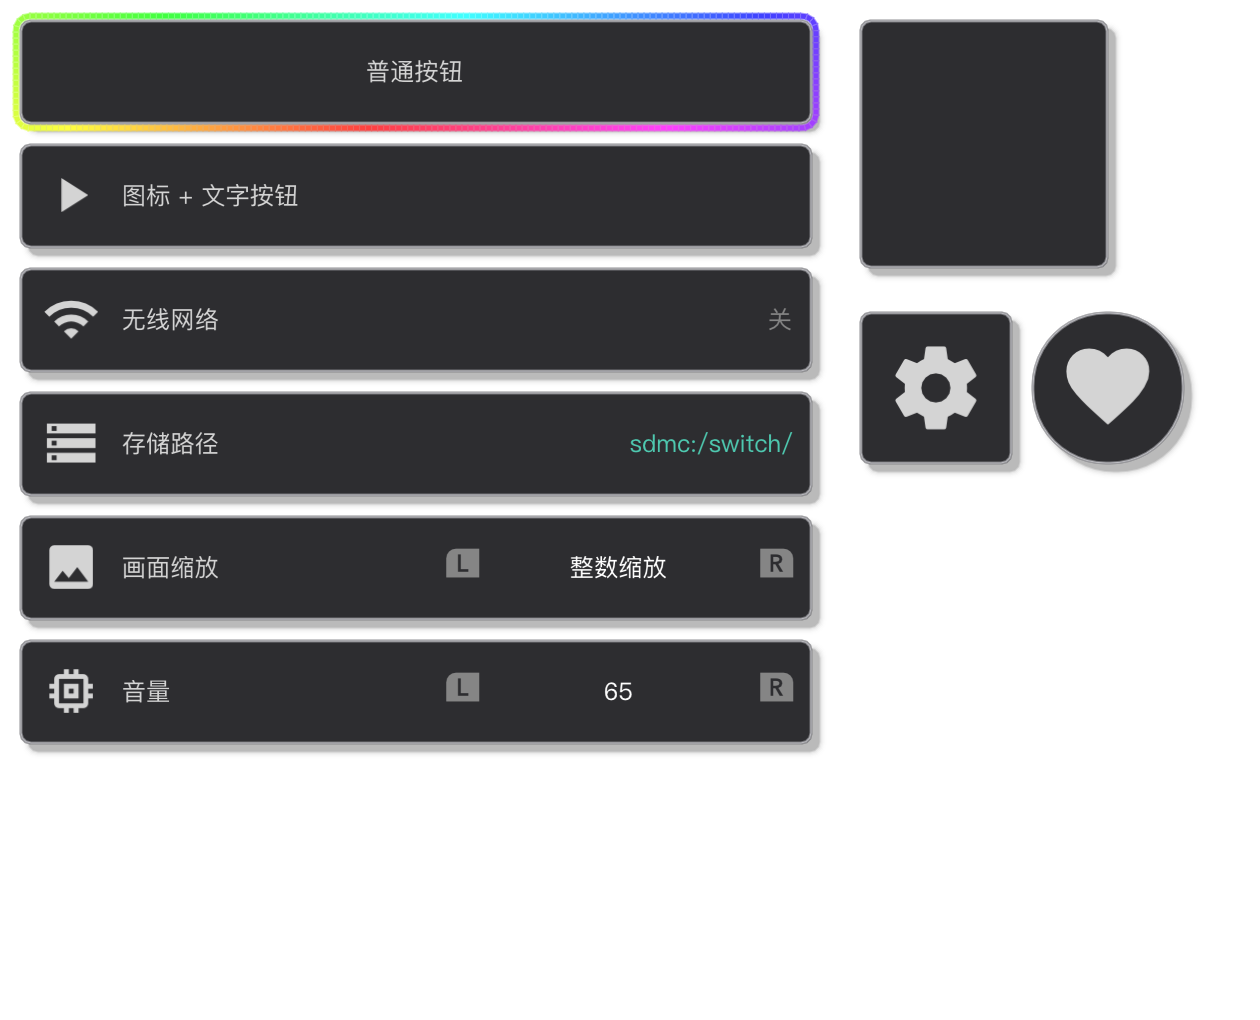
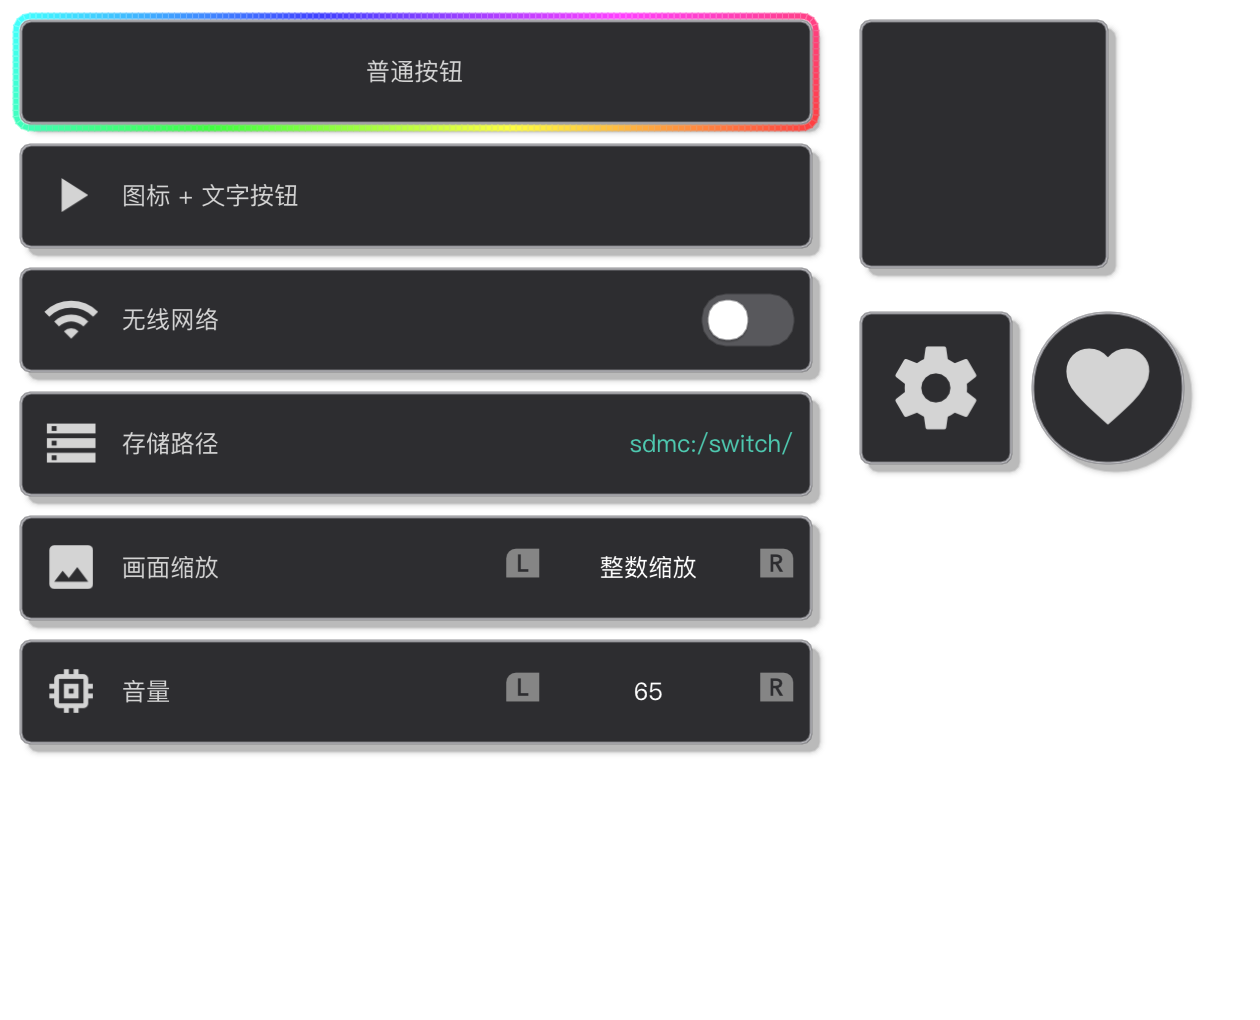
LR 间隔缩到 3/4；开关按钮右侧改成带滑动动画的滑块开关
1. Global::component_style.lr_slot_width 120px → 90px（原值 3/4），两个 LR 选择器
   （OptionButton / ValueButton）共用；内容仍在间隔里居中、超长仍然滚动。
2. ToggleButton 右侧的「开/关」文字换成滑块开关：轨道（关闭 rgb(88,88,92) / 打开 #007ACC）
   + 白色旋钮（带 1px 投影），旋钮位置和轨道色一起做指数平滑动画（knob_speed，默认 14）。
   接口：setSwitchSize(w,h) / setSwitchColors(on, off, knob) / knobMix()；
   原来的 on_text / off_text 字段删掉（需求就是不再用文字）。

验证：
- 抓帧核对 LR 行 [L] 整数缩放 [R]：L 字形 264 起、内容墨迹中心 333（间隔中心 336）、R 在右端 390~407；
  音量行 [L] 65 [R]：65 墨迹中心 334。
- 开关：关态轨道 (88,88,92)、旋钮在 x368~383；开态轨道 (3,121,201)、旋钮在 x388~398。
- 动画：逐帧打点 toggle 后的 knob 值 0 → 0.209 → 0.372 → 0.504 → 0.606 → 0.689 → … → 1（约 0.45s 收敛），
  确认是滑动过渡而不是瞬变。
- mac Debug/Release + Switch 均编译通过；ctest 全绿；6 个 demo 退出码 0；快照已更新。

diff --git a/component_view/components/Button.cpp b/component_view/components/Button.cpp
@@ -1,5 +1,6 @@
 #include "component_view/components/Button.h"
 
+#include <cmath>
 #include <cstdio>
 
 #include "component_view/Draw.h"
@@ -455,18 +456,60 @@ ToggleButton& ToggleButton::setChecked(bool value, bool notify) {
     return *this;
 }
 
+ToggleButton& ToggleButton::setSwitchSize(float width, float height) {
+    switch_width = Maxf(width, 16.0f);
+    switch_height = Clampf(height, 10.0f, Maxf(switch_width, 10.0f));
+    return *this;
+}
+
+ToggleButton& ToggleButton::setSwitchColors(ImVec4 on, ImVec4 off, ImVec4 knob) {
+    on_color = on;
+    off_color = off;
+    knob_color = knob;
+    return *this;
+}
+
 float ToggleButton::rightSideWidth() const {
-    const char* label = checked ? on_text.c_str() : off_text.c_str();
-    return Draw::MeasureText(nullptr, mainFontSize(), label, 0.0f).x;
+    return switch_width;
+}
+
+void ToggleButton::OnUpdate(float dt) {
+    const float target = checked ? 1.0f : 0.0f;
+    if (knob_mix_ < 0.0f) {
+        knob_mix_ = target; // 第一帧直接对齐，避免刚打开就滑一下
+        return;
+    }
+    // 指数平滑，和 Widget 的焦点动画同一种手感
+    const float k = 1.0f - std::exp(-Maxf(knob_speed, 0.01f) * Maxf(dt, 0.0f));
+    knob_mix_ += (target - knob_mix_) * k;
+    if (std::fabs(knob_mix_ - target) < 0.001f) {
+        knob_mix_ = target;
+    }
 }
 
 void ToggleButton::drawRightSide(ImDrawList* dl, const Rect& right_rect) {
-    const char* label = checked ? on_text.c_str() : off_text.c_str();
-    const float size = mainFontSize();
-    const ImVec2 extent = Draw::MeasureText(nullptr, size, label, 0.0f);
-    Draw::Text(dl, nullptr, size,
-               ImVec2(right_rect.max.x - extent.x, right_rect.Center().y - extent.y * 0.5f),
-               Theme::U32(checked ? on_color : off_color), label);
+    const float t = Clampf(knob_mix_ < 0.0f ? (checked ? 1.0f : 0.0f) : knob_mix_, 0.0f, 1.0f);
+    const float height = switch_height;
+    const Rect track = Rect::FromPosSize(ImVec2(right_rect.max.x - switch_width, right_rect.Center().y - height * 0.5f),
+                                         ImVec2(switch_width, height));
+    const float radius = height * 0.5f;
+    // 轨道：关闭灰 -> 打开蓝，颜色跟着动画一起过渡
+    Draw::RoundedRectFilled(dl, track, Theme::Mix(Theme::U32(off_color), Theme::U32(on_color), t), radius, radius,
+                            radius, radius);
+    // 旋钮：从左滑到右
+    const float inset = Maxf(2.0f, height * 0.12f);
+    const float knob_r = Maxf(radius - inset, 2.0f);
+    const float travel = Maxf(track.Width() - 2.0f * inset - 2.0f * knob_r, 0.0f);
+    const float knob_x = track.min.x + inset + knob_r + travel * t;
+    const Rect knob = Rect::FromPosSize(ImVec2(knob_x - knob_r, track.Center().y - knob_r),
+                                        ImVec2(knob_r * 2.0f, knob_r * 2.0f));
+    ShadowStyle knob_shadow;
+    knob_shadow.enabled = true;
+    knob_shadow.color = Theme::U32(Theme::rgba(0, 0, 0, 110));
+    knob_shadow.offset = ImVec2(0.0f, 1.0f);
+    knob_shadow.blur = 3.0f;
+    Draw::SoftShadow(dl, knob, knob_shadow, knob_r, knob_r, knob_r, knob_r);
+    Draw::RoundedRectFilled(dl, knob, Theme::U32(knob_color), knob_r, knob_r, knob_r, knob_r);
 }
 
 bool ToggleButton::OnPadAction(InputAction action) {

diff --git a/component_view/components/Button.h b/component_view/components/Button.h
@@ -165,23 +165,34 @@ protected:
 };
 
 // ------------------------------------------------------------------- 4 开关 ---
+// 右侧是一个滑块式开关（轨道 + 旋钮），切换时旋钮位置与轨道颜色都做平滑动画。
 class ToggleButton : public Button {
 public:
     ToggleButton();
     ToggleButton(std::string glyph, std::string value);
 
     bool checked = false;
-    std::string on_text = "开";
-    std::string off_text = "关";
-    ImVec4 on_color = Theme::kAccent;
-    ImVec4 off_color = Theme::kTextMuted;
+    // 开关外观
+    ImVec4 on_color = Theme::kAccent;      // 打开时的轨道色
+    ImVec4 off_color = Theme::rgb(88, 88, 92); // 关闭时的轨道色
+    ImVec4 knob_color = Theme::kTextBright;    // 旋钮色
+    float switch_width = 46.0f;
+    float switch_height = 26.0f;
+    float knob_speed = 14.0f; // 动画收敛速度（越大越快）
 
     ToggleButton& setChecked(bool value, bool notify = true);
+    ToggleButton& setSwitchSize(float width, float height);
+    ToggleButton& setSwitchColors(ImVec4 on, ImVec4 off, ImVec4 knob);
+    float knobMix() const { return knob_mix_; }
 
 protected:
     float rightSideWidth() const override;
     void drawRightSide(ImDrawList* dl, const Rect& right_rect) override;
     bool OnPadAction(InputAction action) override;
+    void OnUpdate(float dt) override;
+
+private:
+    float knob_mix_ = -1.0f; // <0 = 还没初始化，第一帧直接对齐到 checked（不播动画）
 };
 
 // ----------------------------------------------------------- 5 自定义右侧文字 --

diff --git a/component_view/Global.h b/component_view/Global.h
@@ -49,7 +49,7 @@ struct ComponentStyle {
     // 内容
     float content_padding = 8.0f; // 内容到边框的留白（图标四周等距就是靠它）
     // LR 选择器（OptionButton / ValueButton）：[L] 固定间隔 [R] 里那一格的宽度
-    float lr_slot_width = 120.0f;
+    float lr_slot_width = 90.0f;
     // 上面那一格放不下时，文字横向滚动显示
     float marquee_speed = 26.0f; // px/s
 };

diff --git a/README.md b/README.md
@@ -183,7 +183,7 @@ void OnBuild() override {
 | 聚焦框 | 完整闭合的流光框，与按钮留 **2px** 边距，宽 **3px** | `setFlowingFocus(bool)` + `focus_margin / focus_width / focus_saturation / focus_brightness / focus_phase_offset` |
 | 内容留白 | 8px | `setContentPadding(px)` |
 | 图标格 | 正方形，边长 = 内容区高度（四周留白相同） | `setIconCellSize(px)` |
-| LR 间隔 | 120px 固定宽，内容居中、超长滚动 | `setSlotWidth(px)` |
+| LR 间隔 | 90px 固定宽，内容居中、超长滚动 | `setSlotWidth(px)` |
 
 流光框的相位跟 `Global::time` 走（`focus_flow_speed` 控制流速），颜色是沿圆角边框按弧长流动的 HSV，
 所以四边一直是闭合的，不会出现"只有上下两条线"的聚焦效果。
@@ -193,7 +193,7 @@ void OnBuild() override {
 | 1 | `TextButton` | `("文字")` | 文字水平居中，**不带说明行**（弹窗的确认/取消这类提示文字） | — |
 | 2 | `IconTextButton` | `(icon, "文字")` | 图标占左侧正方形格（格内水平+垂直居中）+ 文字紧跟其右 | — |
 | 3 | `IconButton` | `(icon)` | 只有图标，两种形态：`setShape(RoundedSquare/Circle)` + `setSide(px)`；说明行画在按钮外面 | — |
-| 4 | `ToggleButton` | `(icon, "文字")` | 图标 + 文字 | 开 / 关（开=蓝、关=灰），A/点击切换，`toggled(bool)` |
+| 4 | `ToggleButton` | `(icon, "文字")` | 图标 + 文字 | 右侧滑块开关（开=蓝、关=灰），切换有滑动动画，A/点击切换，`toggled(bool)` |
 | 5 | `CustomButton` | `(icon, "文字")` | 图标 + 文字 | 自定义文字：`setRightText(text, color)` |
 | 6 | `OptionButton` | `(icon, "文字")` | 图标 + 文字 | `[L] 选项 [R]`：固定间隔、居中、超长滚动；`setOptions({...})`，L/R 切换，`selectionChanged(int)` |
 | 7 | `ValueButton` | `(icon, "文字")` | 图标 + 文字 | `[L] 数值 [R]`：同上；`setup(初值, 最小, 最大, 步长, 小数位)`，L/R 调值，`valueChanged(float)` |
@@ -212,7 +212,7 @@ void OnBuild() override {
 默认在按钮下方，下方空间不足就等距放到上方，上下都不够就直接不显示。
 可用空间 = 画布 ∩ 父节点（`CaptionLimit()`），间距用 `caption_gap`（默认 4px）。
 
-`OptionButton` / `ValueButton` 的右侧是 `[L] <固定间隔> [R]`：间隔宽度固定（默认 120px），
+`OptionButton` / `ValueButton` 的右侧是 `[L] <固定间隔> [R]`：间隔宽度固定（默认 90px），
 文字/数字在间隔里居中；**放不下就在间隔里横向循环滚动**（跑马灯，超出部分按间隔裁掉）。
 
 `ValueButton` 支持**长按加速**：按住 0.35s 后开始重复，重复间隔从 120ms 收紧到 30ms（有下限），
@@ -803,6 +803,13 @@ git -C third_party/imgui fetch --tags     # 升级 imgui 用
   关掉说明行后主文字就停在偏上 8px 的位置；现在按文字块自己的高度居中。
   实测（说明行关）：无线网络主文字墨迹中心 169.5 / 存储路径 231.5 vs 按钮中心 170 / 232；
   普通按钮（无说明行）主文字墨迹中心 y=45.5、x=217 vs 按钮中心 (46, 218)。
+- 已确认（Button 第五轮调整）：① LR 选择器的固定间隔 120px → **90px**（原来的 3/4）——抓帧核对
+  `[L] 整数缩放 [R]`：L 字形 264 起、内容墨迹中心 333（间隔中心 336）、R 落在右端 390~407；
+  ② `ToggleButton` 右侧的「开/关」文字换成**滑块开关**（轨道 + 旋钮，开=#007ACC、关=rgb(88,88,92)、
+  旋钮白色带一点投影），切换时旋钮位置和轨道色一起做指数平滑动画：逐帧打点看到
+  `mix: 0 → 0.209 → 0.372 → 0.504 → 0.606 → 0.689 → … → 1`（约 0.45s 收敛），
+  抓帧核对关态旋钮在 x368~383、开态在 x388~398，轨道色 (88,88,92) → (3,121,201)；
+  接口：`setSwitchSize(w,h)` / `setSwitchColors(on,off,knob)` / `knob_speed` / `knobMix()`。
 - 顺带修掉一个框架输入 bug（长按功能的前提）：`PadState::held` 原来是"每帧清零"，SDL 只在按下那一刻
   发一次 KEYDOWN，所以按住不放时 `held` 只有第一帧为真、`Held()` 根本没法用（`Input.h` 注释里
   写的是电平语义）。现在后端把上一帧的按住状态继承下来再叠加本帧事件，`held` 变回真正的电平；
